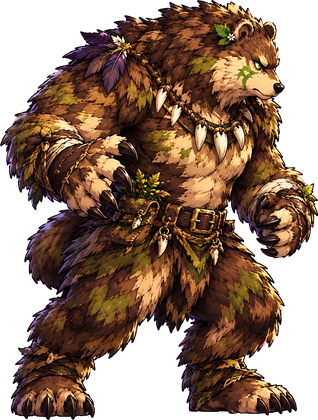
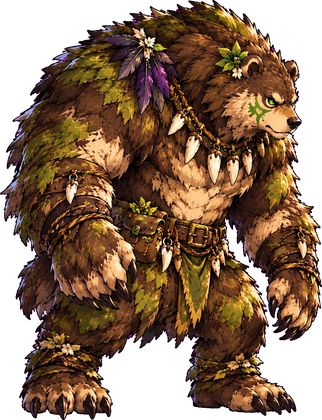
v0.2.0.0072: 곰인간 그림 교체 - 상체 거대화 (수치 변경 없음)
Claude-Session: https://claude.ai/code/session_01XgMamwA2MFesNFKDoCmsPA

diff --git a/index.html b/index.html
@@ -423,7 +423,7 @@ body.hud-norank #dmgRank,body.hud-nocombo #combo,body.hud-nolvpen #lvPen{display
   </div>
 
   <section class="screen" id="sTitle">
-    <div class="ver" id="verT">v0.2.0.0071</div>
+    <div class="ver" id="verT">v0.2.0.0072</div>
     <button class="gearT" id="bSet" aria-label="설정">⚙</button>
     <div class="eyebrow">DARK GUARDIAN</div>
     <h1>어둠의 수호자</h1>
